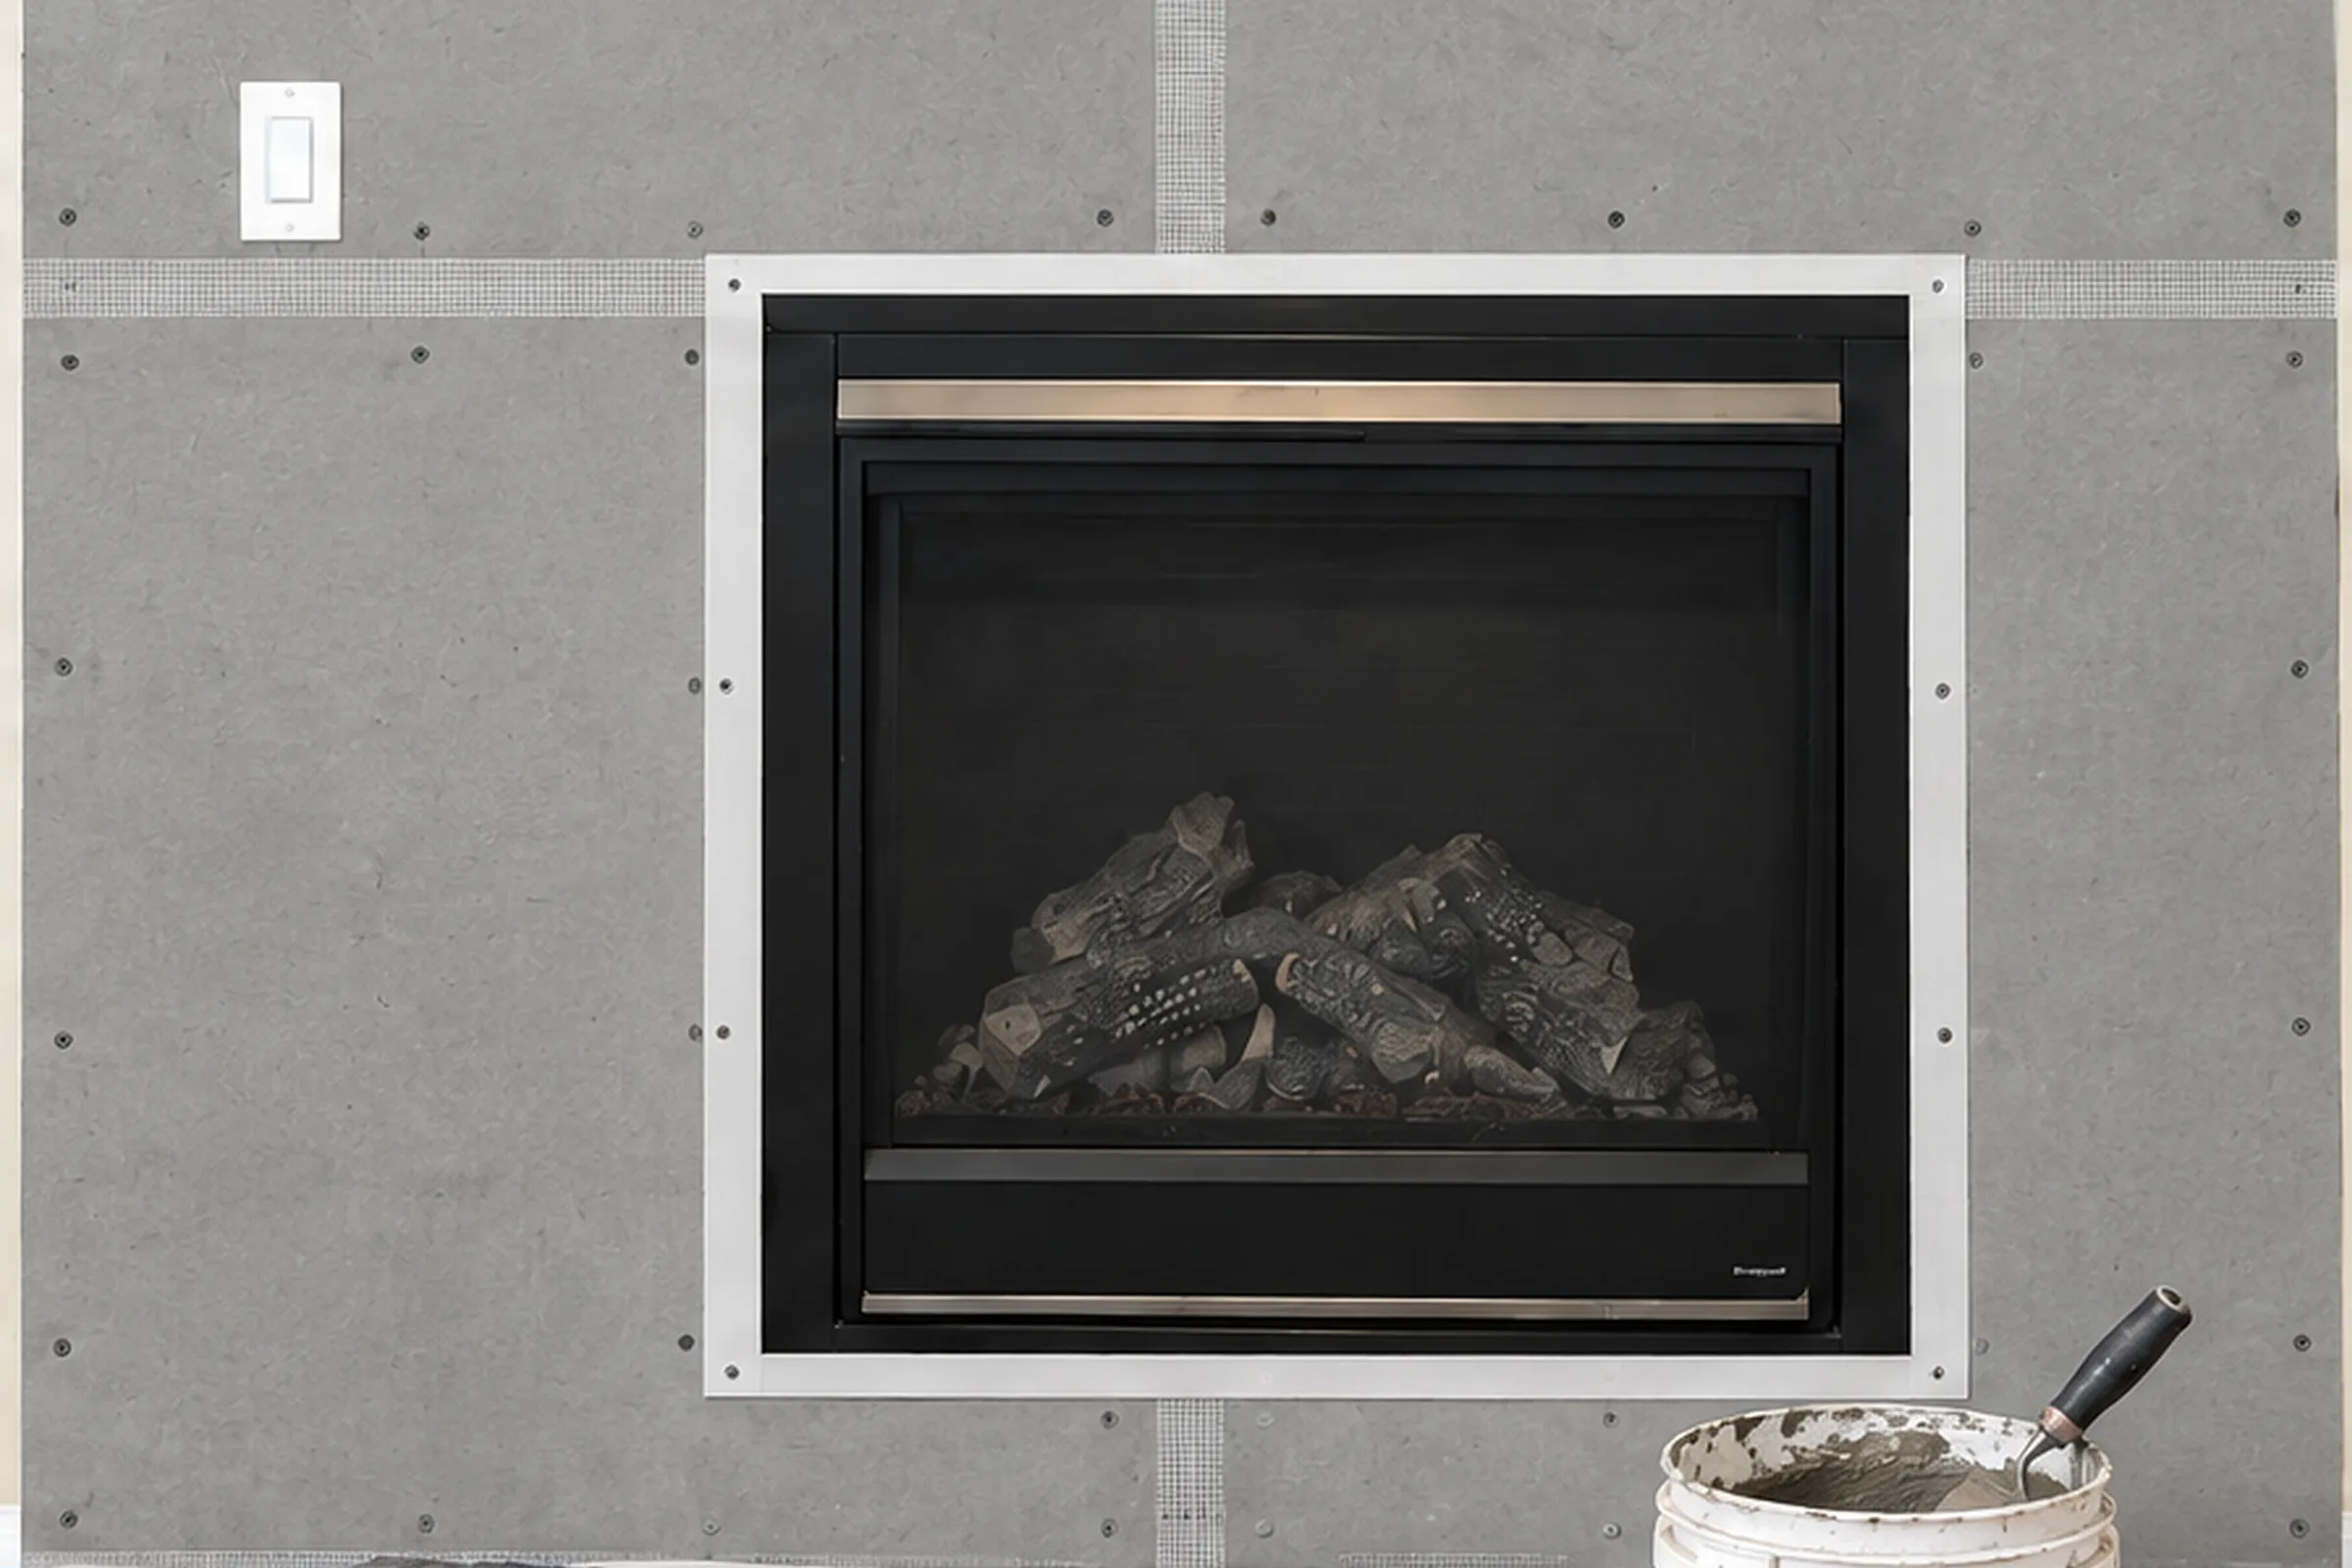
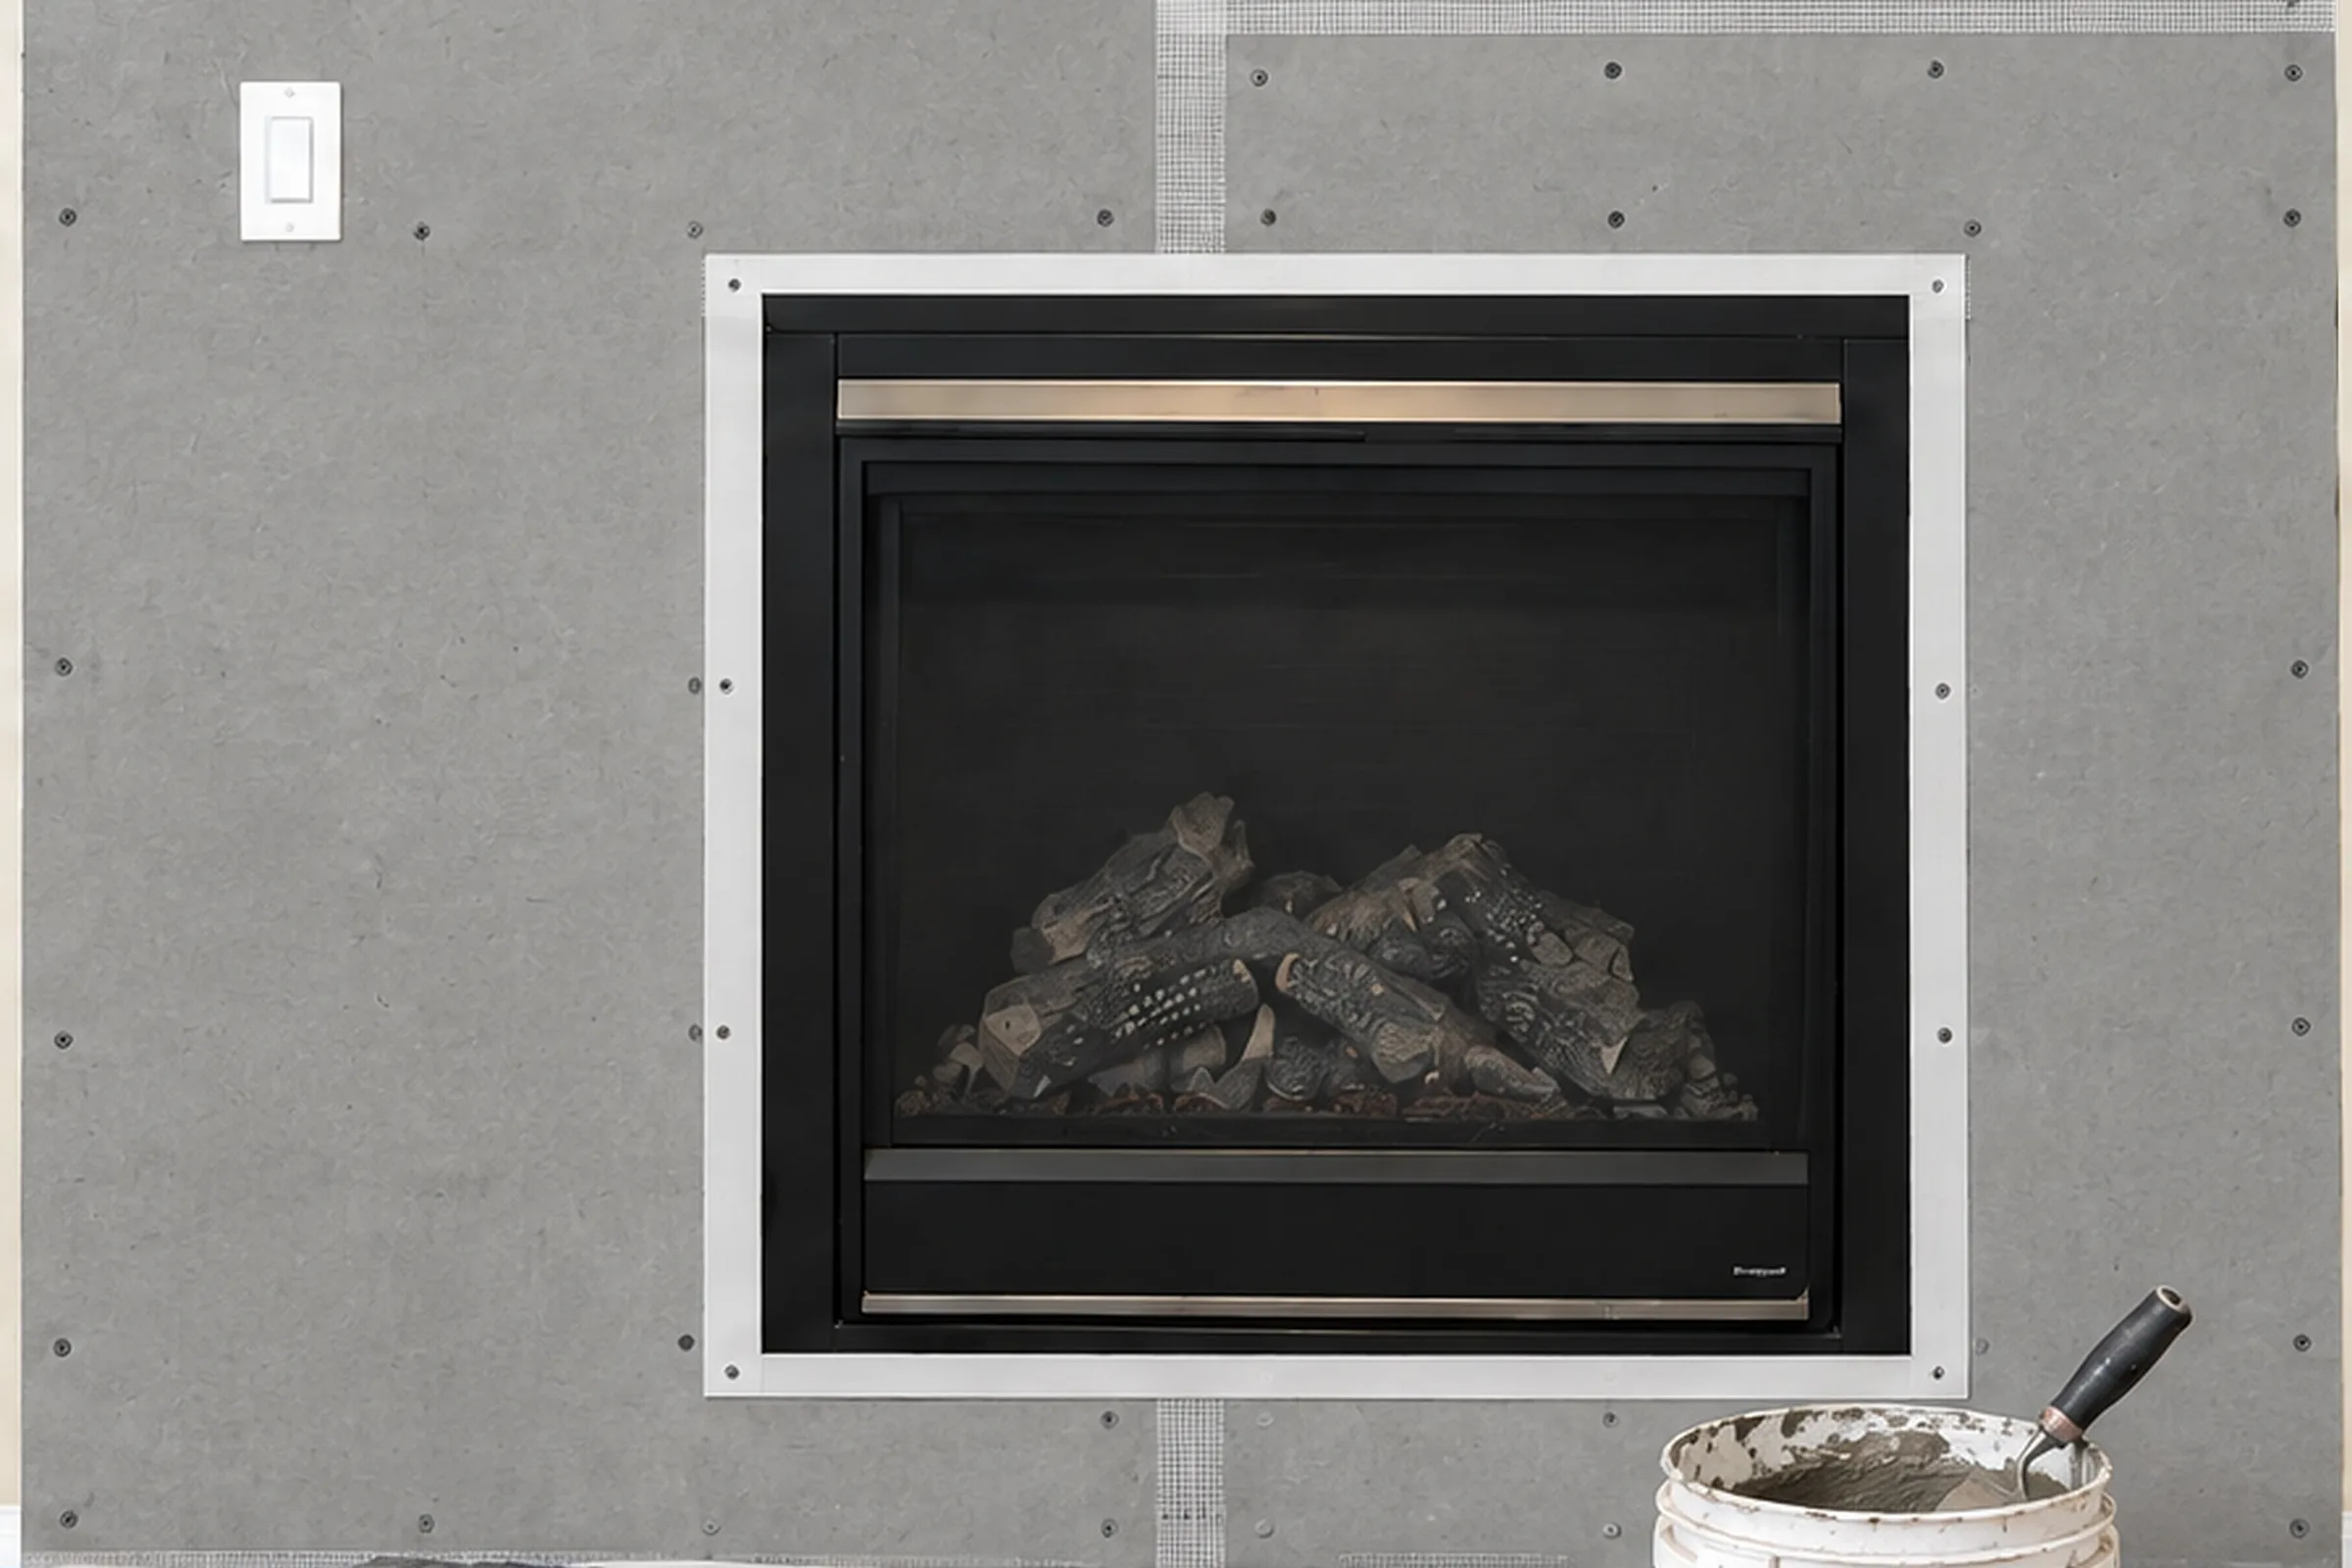
fix: use the reworked film prep frame (staggered board seams)
- prep masters v2 (T joints only) swapped in through import_job_images.py:
  phone frame (same stone-wall crop) and desktop card crop; same coordinates

Changed region(s): [[0.0, 0.1562, 0.3125, 0.2188], [0.5, 0.0, 1.0, 0.0625], [0.8438, 0.1562, 1.0, 0.2188]]

diff --git a/_build/tools/import_job_images.py b/_build/tools/import_job_images.py
@@ -29,7 +29,10 @@ MASTER2 = f"{ARCHIVE}/photo-batch/master2"
 FILM = f"{ARCHIVE}/mhcr-stone-film/f"
 KEYS = f"{ARCHIVE}/fp1/keys"
 CARD_BOX = (1338, 1184, 2706, 2096)
-FP1_M_BOX = (198, 300, 1230, 1676)   # where fireplace-1/after (the 3:4 film card) sits in the film's final-m frame
+FP1_M_BOX = (198, 300, 1230, 1676)
+# Prep frame v2 (10-15): cement-board seams redrawn as staggered T joints, pixel-identical outside the board.
+PREP_FIX = "/Users/maz/Documents/Projects/MHCR-Redesign/photo-fixes-261015/fp1-prep"
+PREP_4K, PREP_M = f"{PREP_FIX}/prep_4k_v2.png", f"{PREP_FIX}/m_prep_v2.png"   # replace keys/prep_4k.png, keys/m_prep.png   # where fireplace-1/after (the 3:4 film card) sits in the film's final-m frame
 
 # Older wides that were still stretched: (master file, measured aspect vs the mobile, NCC confidence).
 # Measured 2026-10-15 with a two-stage NCC fit (coarse grid as wide2/tools/measure_stretch.py, then 0.005 steps).
@@ -111,13 +114,16 @@ def main():
     film_dir = os.path.join(SITE, "images/jobs/fireplace-1")
     for name in ("prep", "final"):
         dst = f"{film_dir}/film-{name}-m.webp"                    # phone set: cut to the stone wall's width (x 198-1230)
-        m = Image.open(f"{FILM}/{name}-m.webp").convert("RGB")  # so the bar shelf + bottles at the right can never show
+        if name == "prep":                                        # so the bar shelf + bottles at the right can never show
+            m = Image.open(PREP_M).convert("RGB").resize((1440, 2217), Image.LANCZOS)   # same 0.75 scale as the film's -m
+        else:
+            m = Image.open(f"{FILM}/{name}-m.webp").convert("RGB")
         save_webp(m.crop((FP1_M_BOX[0], 0, FP1_M_BOX[2], m.height)), dst, 82)
-        log.append((os.path.relpath(dst, SITE), *map(str, Image.open(dst).size), f"mhcr-stone-film/f/{name}-m.webp", "film frame, cut to x198-1230 (no shelf)"))
+        log.append((os.path.relpath(dst, SITE), *map(str, Image.open(dst).size), "photo-fixes-261015/fp1-prep/m_prep_v2.png" if name == "prep" else f"mhcr-stone-film/f/{name}-m.webp", "film frame, cut to x198-1230 (no shelf)"))
         dst = f"{film_dir}/film-{name}-d.webp"
-        im = Image.open(f"{KEYS}/{name}_4k.png").convert("RGB").crop(CARD_BOX).resize((2400, 1600), Image.LANCZOS)
+        im = Image.open(PREP_4K if name == "prep" else f"{KEYS}/{name}_4k.png").convert("RGB").crop(CARD_BOX).resize((2400, 1600), Image.LANCZOS)
         save_webp(im.filter(ImageFilter.UnsharpMask(radius=1.2, percent=35, threshold=2)), dst, 82)
-        log.append((os.path.relpath(dst, SITE), "2400", "1600", f"fp1/keys/{name}_4k.png", "film card crop x1338-2706 y1184-2096"))
+        log.append((os.path.relpath(dst, SITE), "2400", "1600", "photo-fixes-261015/fp1-prep/prep_4k_v2.png" if name == "prep" else f"fp1/keys/{name}_4k.png", "film card crop x1338-2706 y1184-2096"))
     with open(os.path.join(HERE, "image-import-log.tsv"), "w", encoding="utf-8") as f:
         f.write("\n".join("\t".join(r) for r in log) + "\n")
     print(f"{len(log) - 1} files written; log: _build/tools/image-import-log.tsv")
